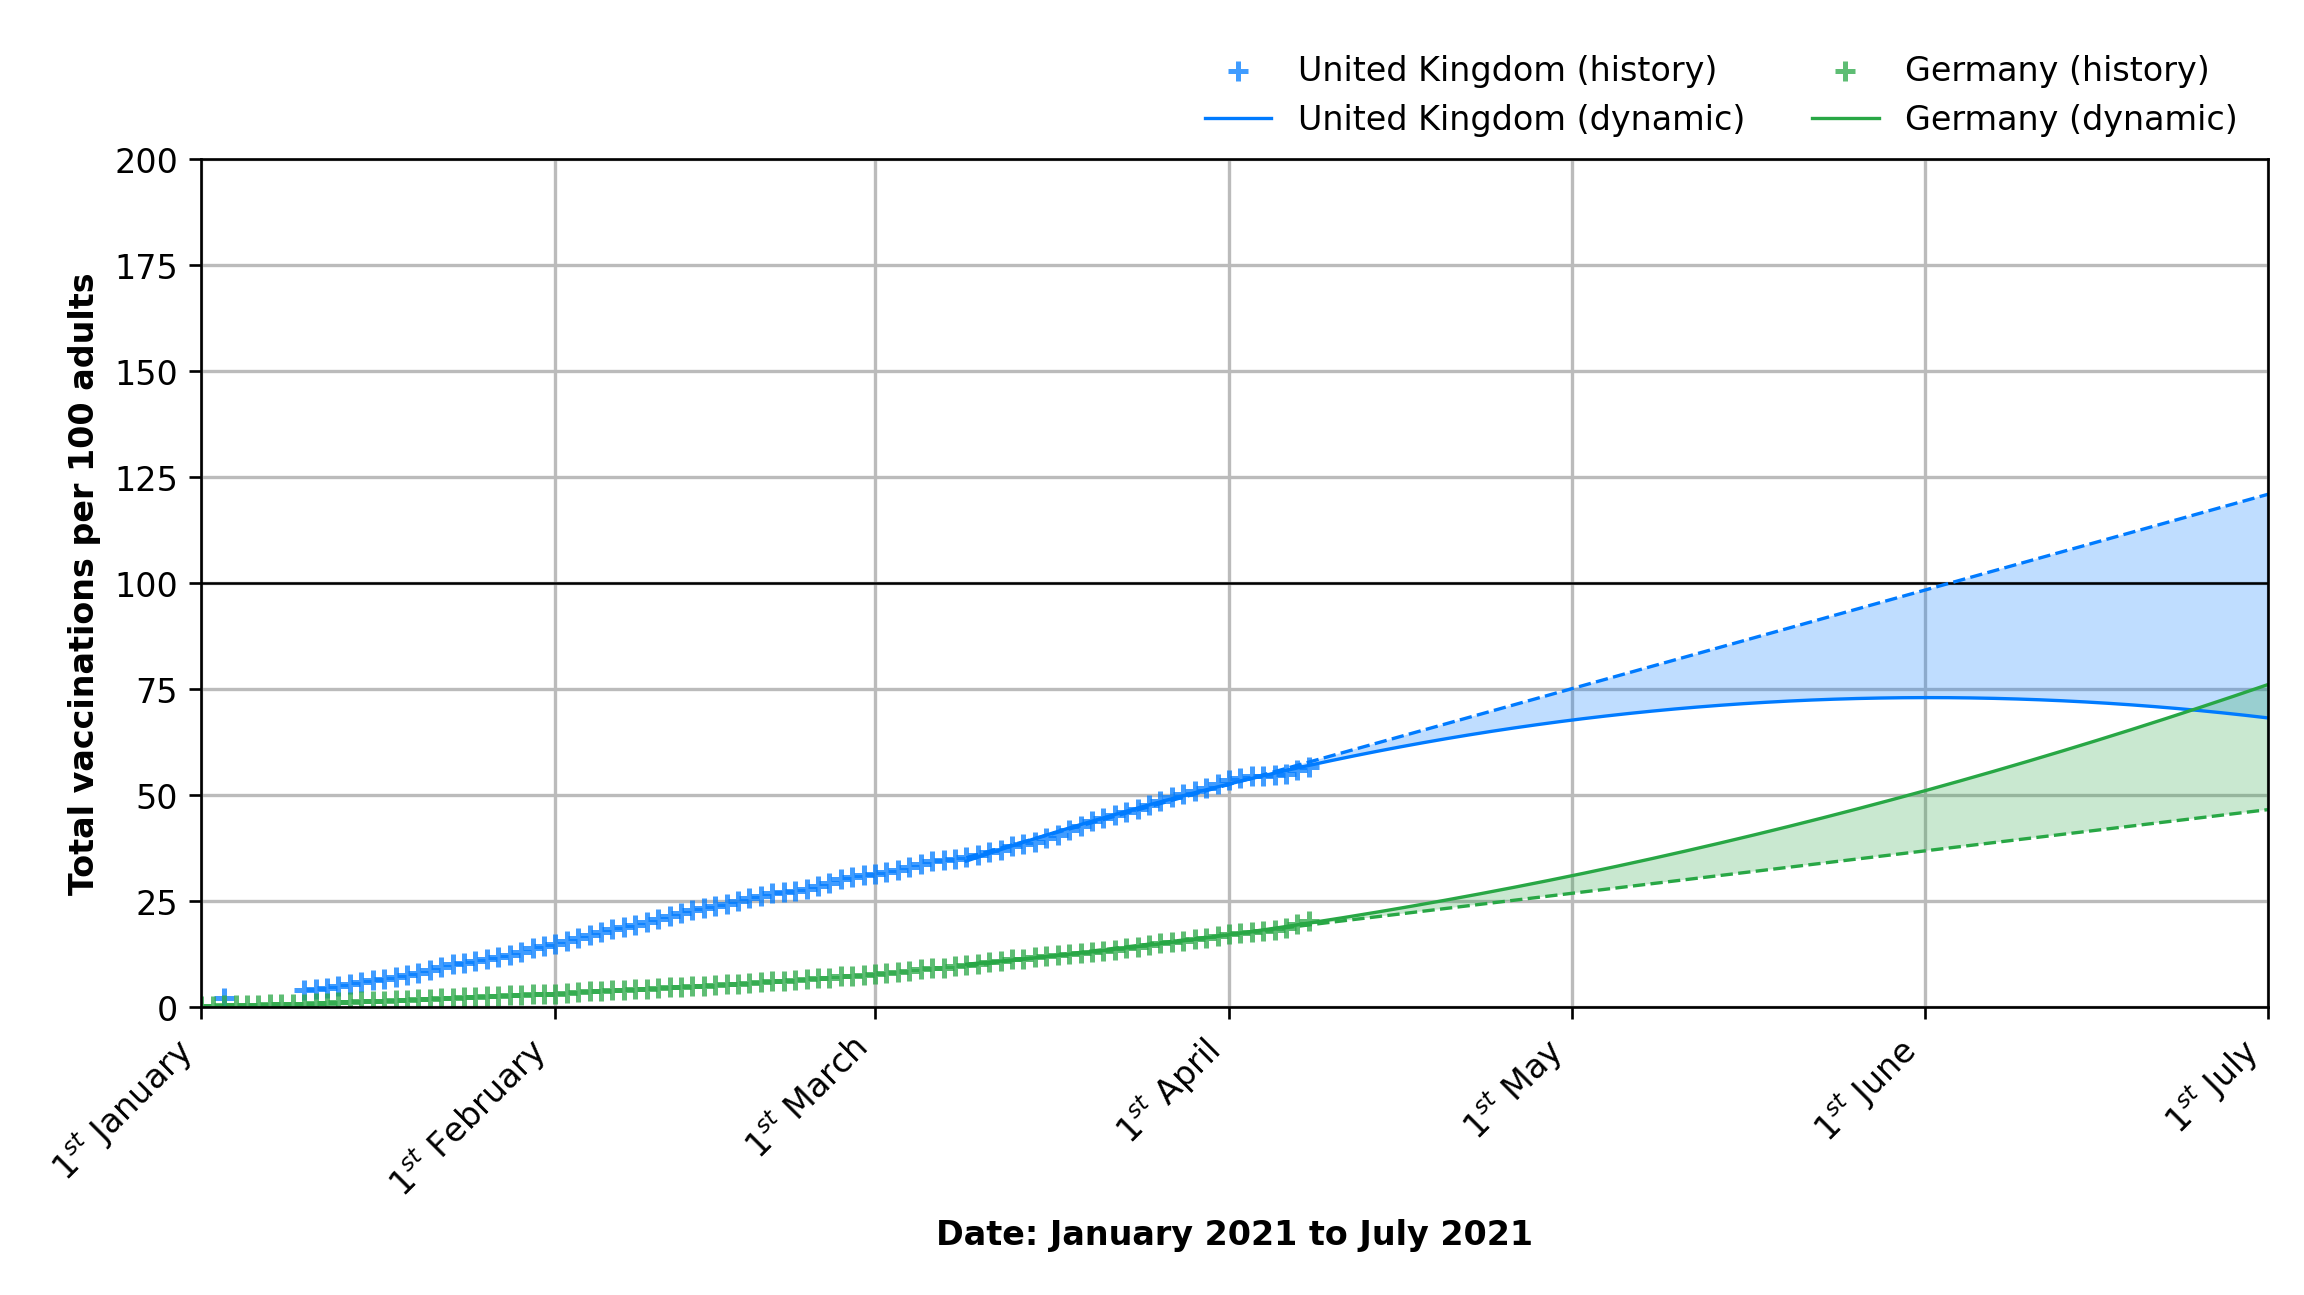
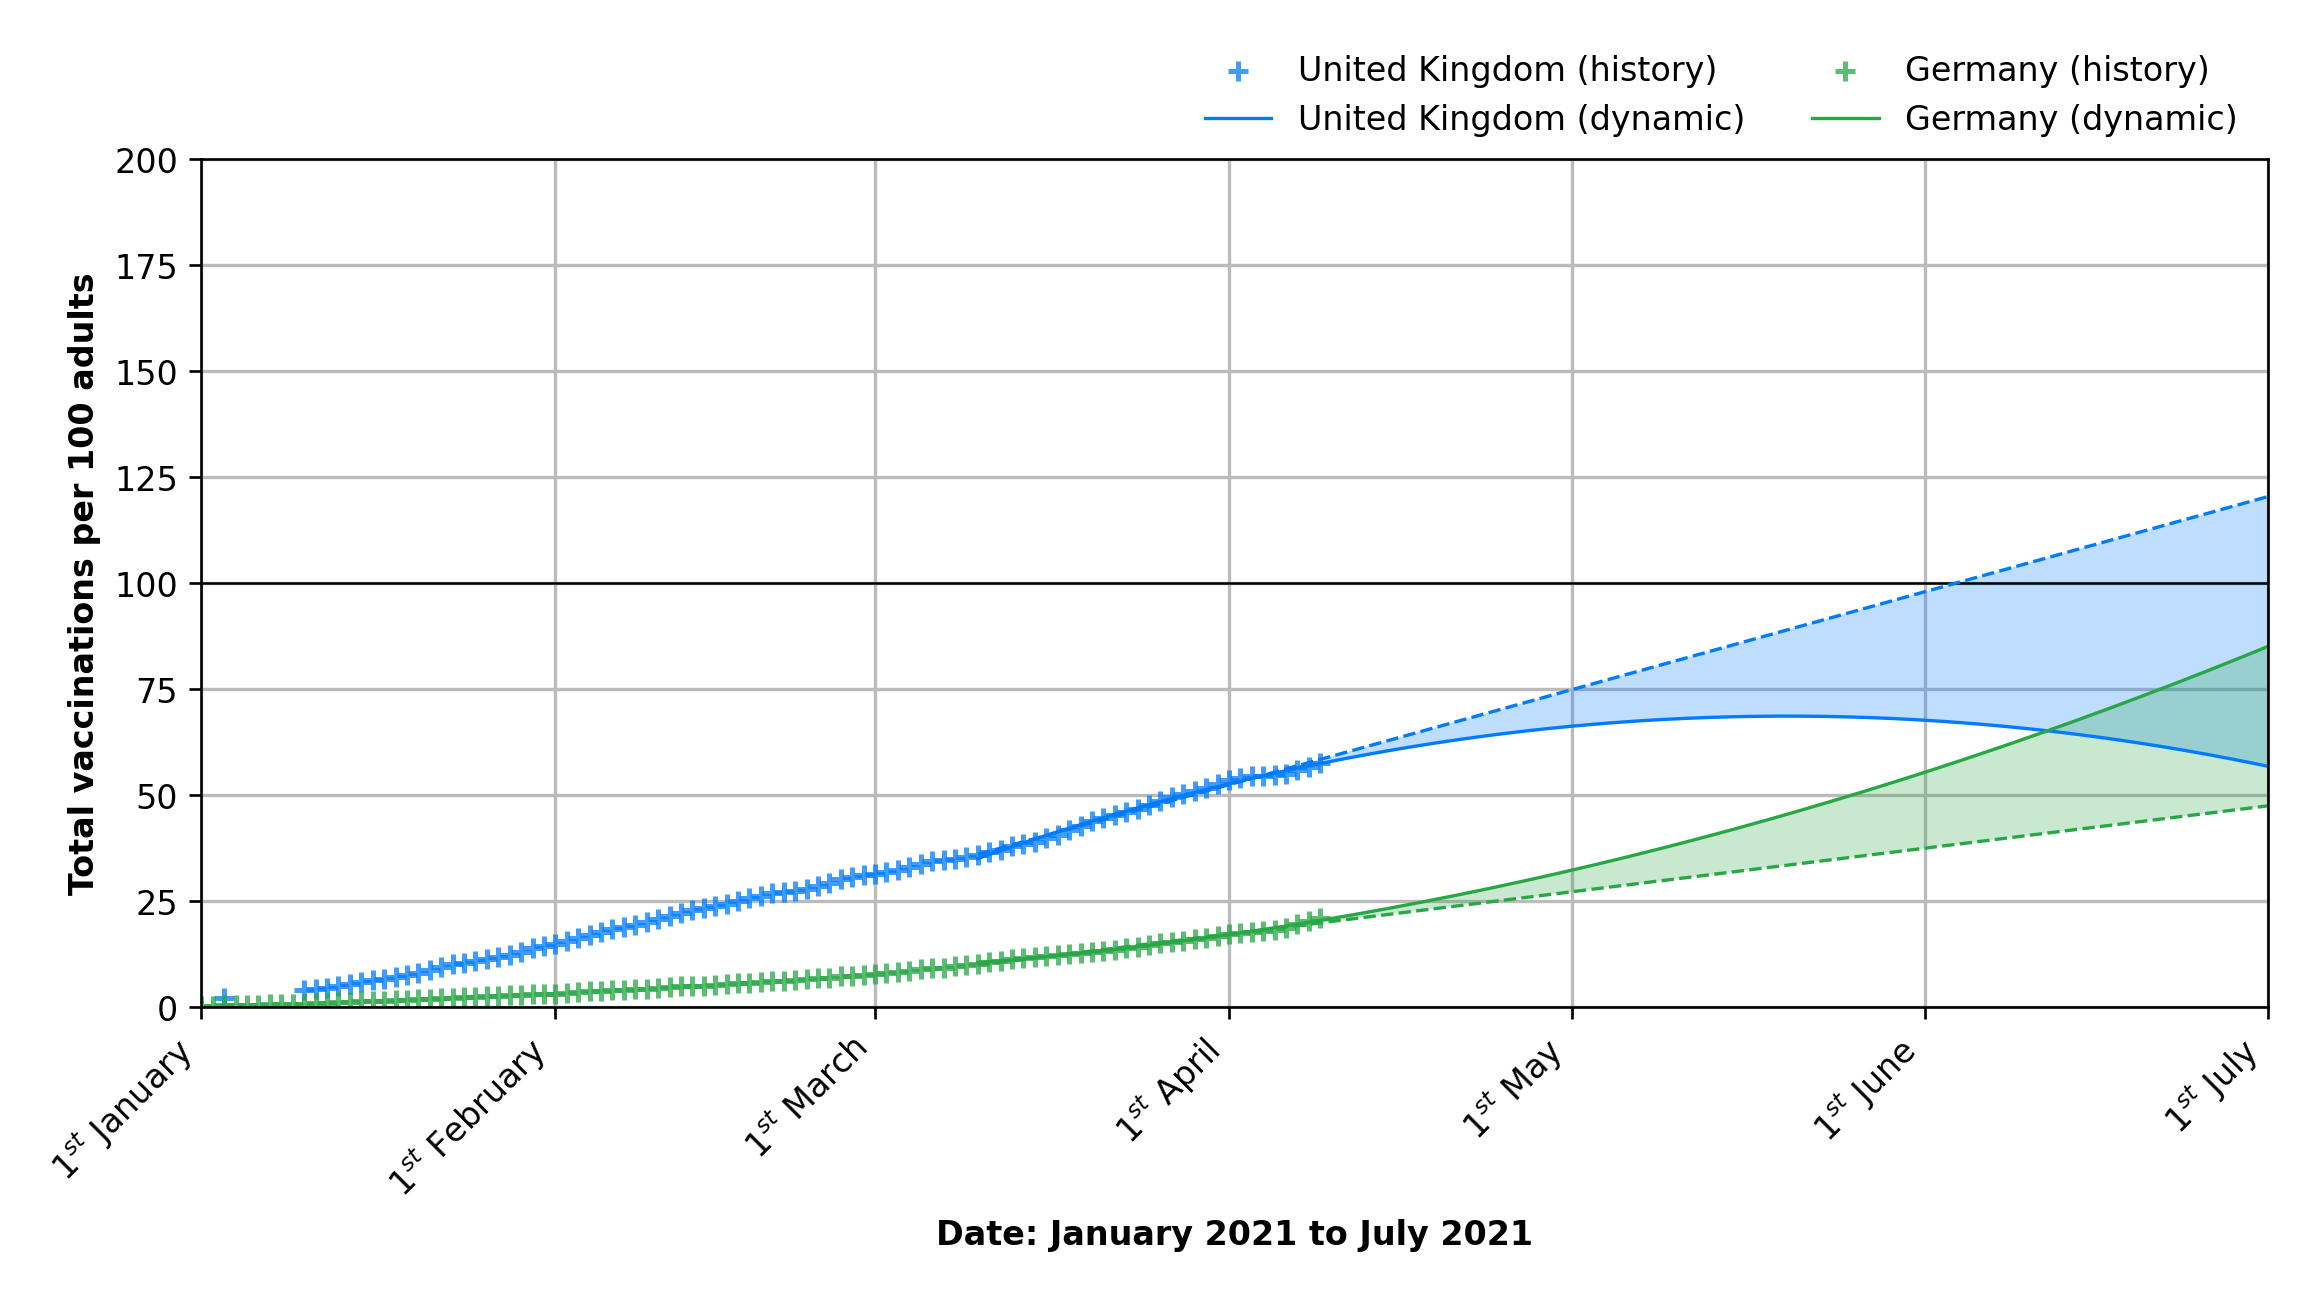
Deploying to gh-pages from @ lambdapioneer/vactrend@0b151e50bae144ff27c39ffb07cd62d871ed93a9 🚀

diff --git a/index.html b/index.html
@@ -37,13 +37,13 @@
                 <div class="card">
                     <div class="card-header">🇬🇧 United Kingdom</div>
                     <div class="card-body">
-                        <h3 class="font-weight-bold" style="color: #007bff">56.63 <small>(+0.80/d)</small></h3>
+                        <h3 class="font-weight-bold" style="color: #007bff">57.45 <small>(+0.82/d)</small></h3>
                         <p class="mt-n2">Vaccinations per 100 adults</p>
                         <h3 class=" font-weight-bold">04 June 2021</h3>
                         <p class="mt-n2">Earliest day: 100 vacc. per 100 adults</p>
-                        <h3 class=" font-weight-bold">15 October 2021</h3>
+                        <h3 class=" font-weight-bold">16 October 2021</h3>
                         <p class="mt-n2">Earliest day: 200 vacc. per 100 adults</p>
-                        <p class="card-text"><small class="text-muted">Last data from 08 April 2021.</small></p>
+                        <p class="card-text"><small class="text-muted">Last data from 09 April 2021.</small></p>
                     </div>
                 </div>
             </div>
@@ -52,13 +52,13 @@
                 <div class="card">
                     <div class="card-header">🇩🇪 Germany</div>
                     <div class="card-body">
-                        <h3 class="font-weight-bold" style="color: #28a745">20.33 <small>(+0.86/d)</small></h3>
+                        <h3 class="font-weight-bold" style="color: #28a745">20.98 <small>(+0.65/d)</small></h3>
                         <p class="mt-n2">Vaccinations per 100 adults</p>
-                        <h3 class=" font-weight-bold">25 July 2021</h3>
+                        <h3 class=" font-weight-bold">14 July 2021</h3>
                         <p class="mt-n2">Earliest day: 100 vacc. per 100 adults</p>
-                        <h3 class=" font-weight-bold">10 October 2021</h3>
+                        <h3 class=" font-weight-bold">20 September 2021</h3>
                         <p class="mt-n2">Earliest day: 200 vacc. per 100 adults</p>
-                        <p class="card-text"><small class="text-muted">Last data from 08 April 2021.</small></p>
+                        <p class="card-text"><small class="text-muted">Last data from 09 April 2021.</small></p>
                     </div>
                 </div>
             </div>
